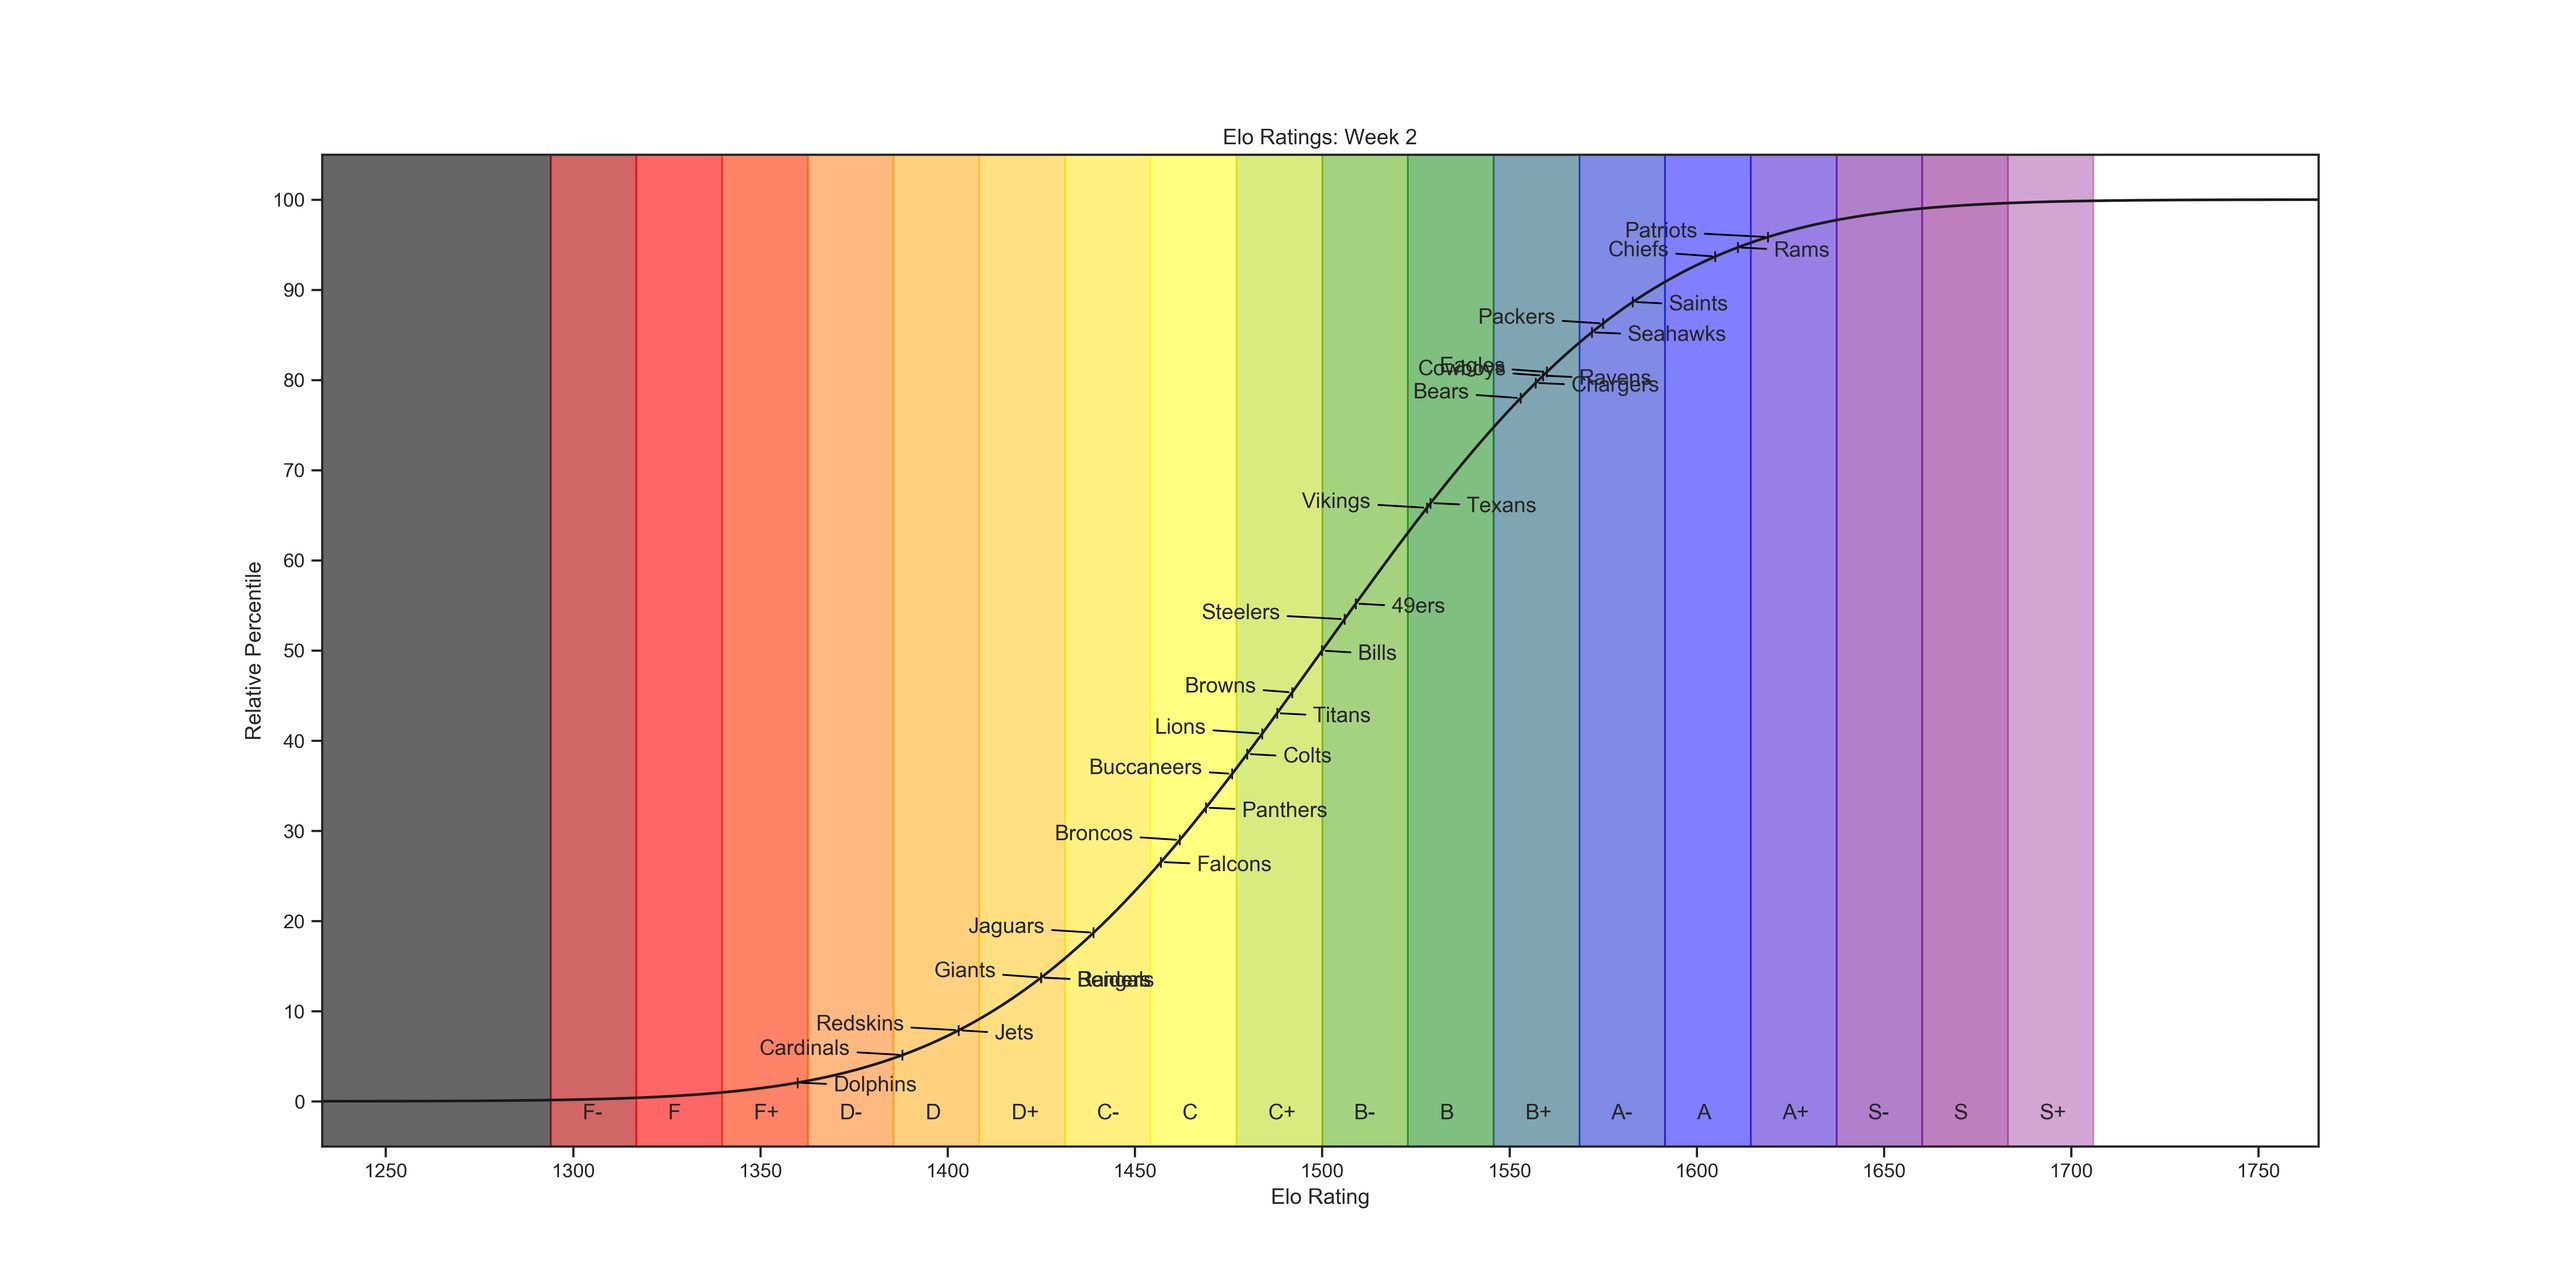
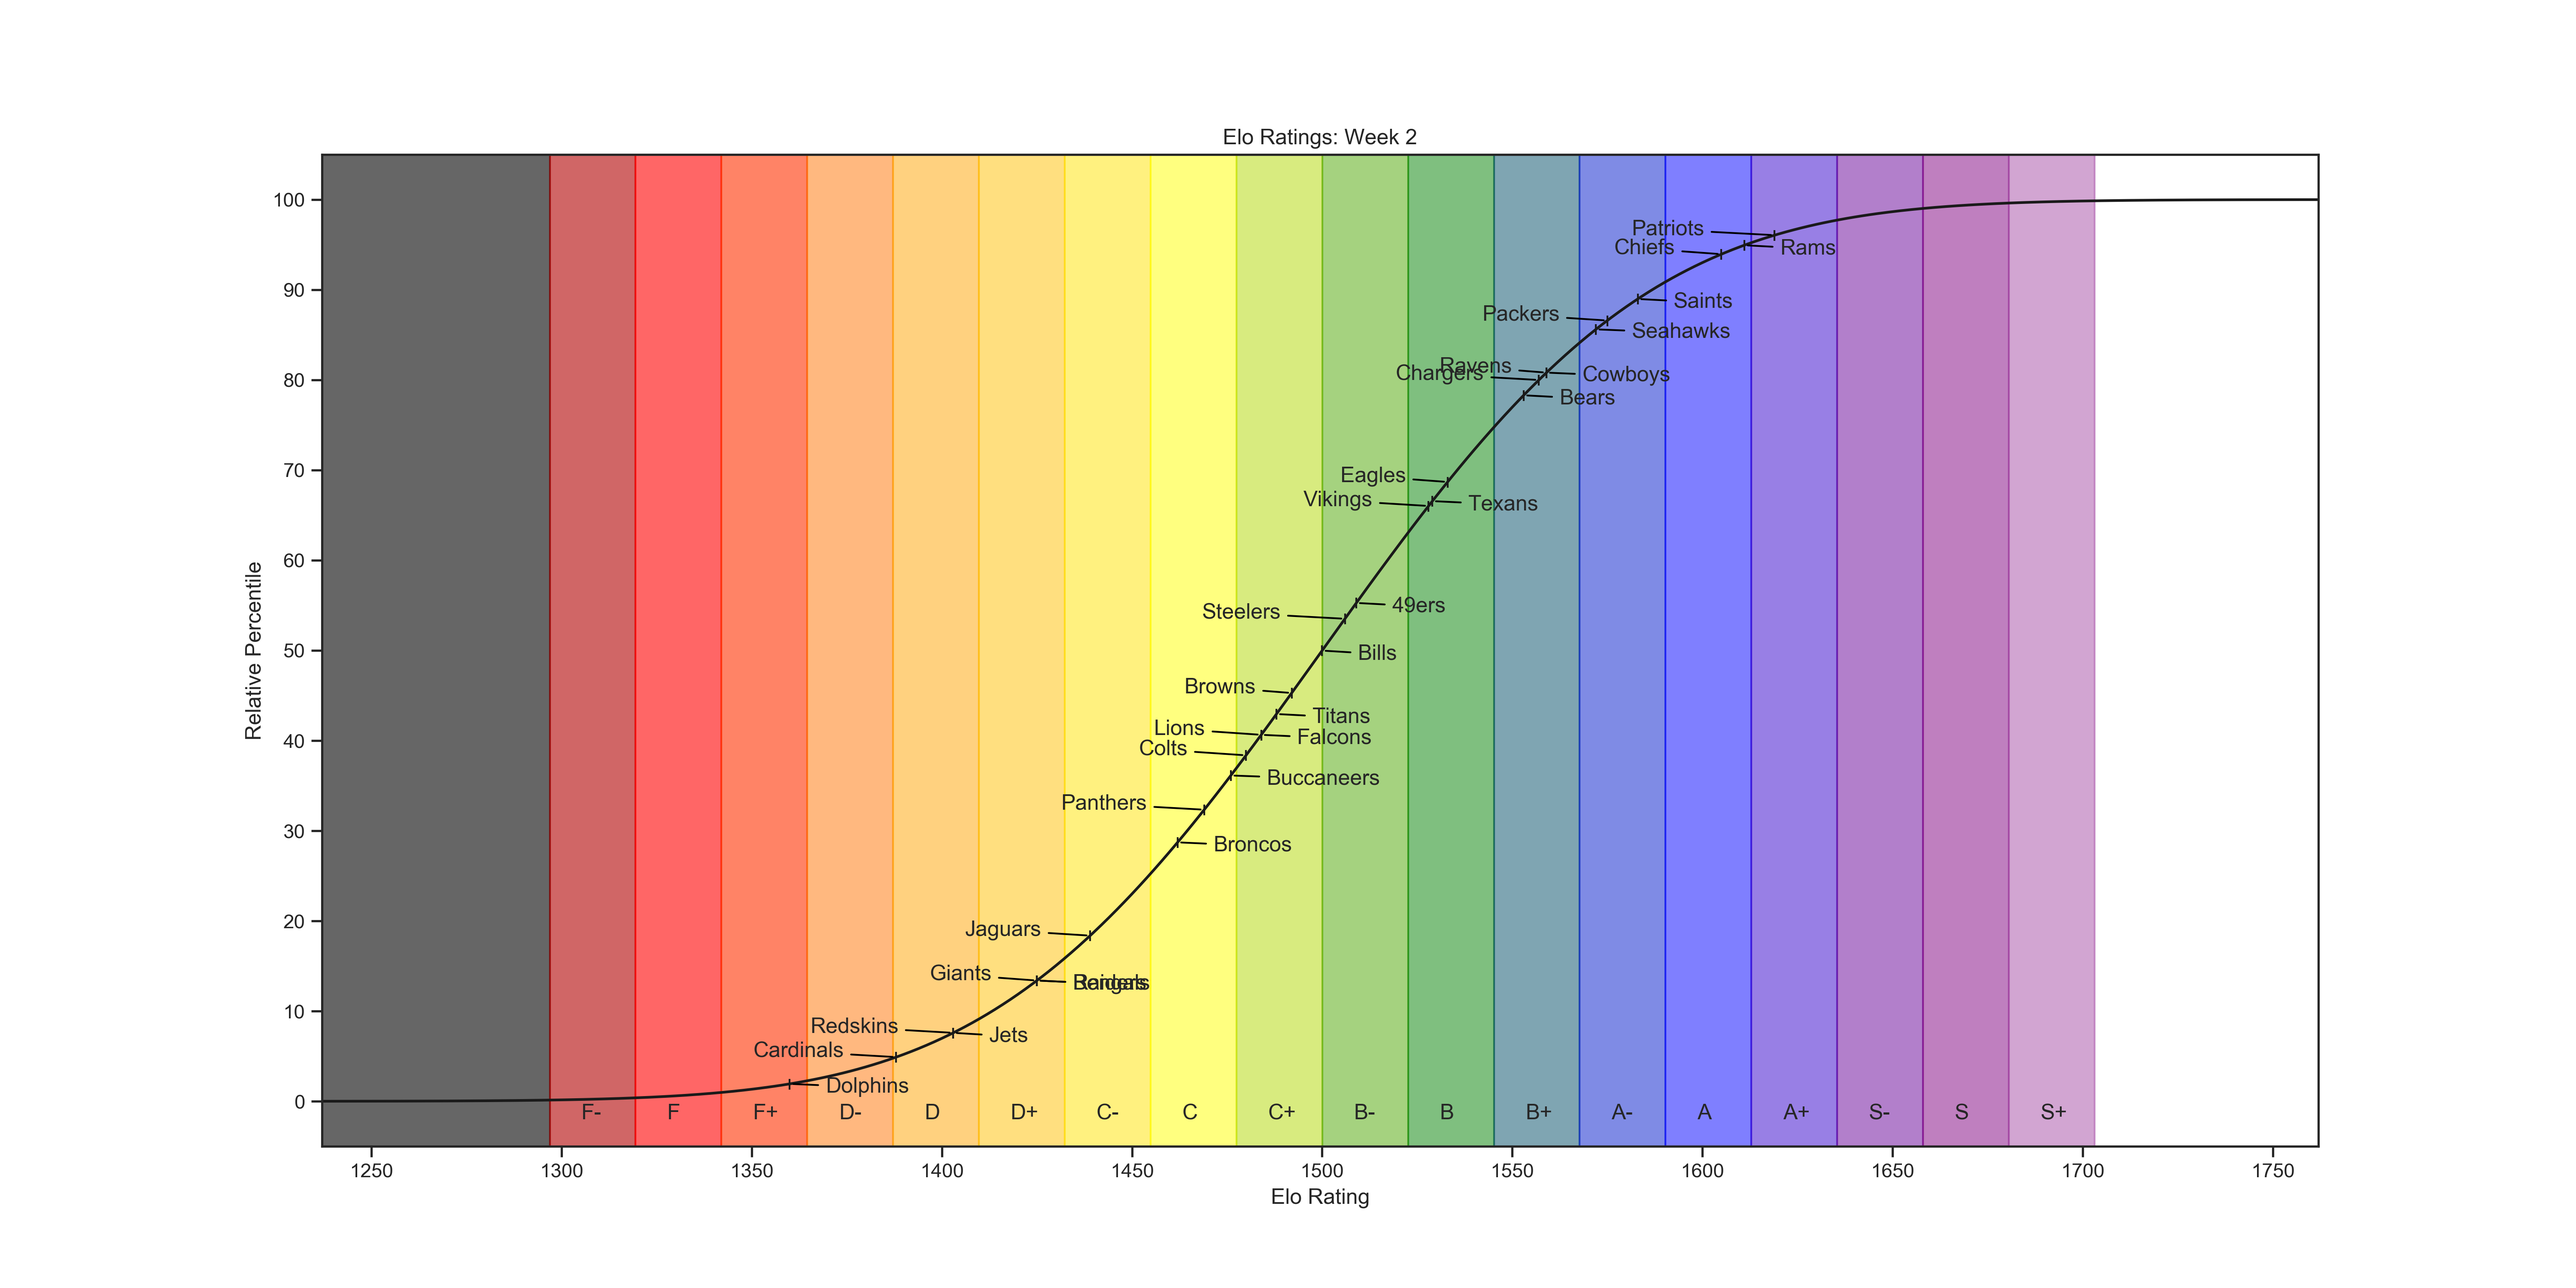
Updated Week 2

diff --git a/NFLSeason2019.py b/NFLSeason2019.py
@@ -347,10 +347,10 @@ def week_2(teams, week_end_date):
                              'Broncos', 14, 1, 282, 35, 50, 1, 1, 372,
                              'Bears', 16, 1, 120, 16, 27, 0, 0, 273)
 
-    # teams = set_game_outcome(teams, 0,
-    #                          'Falcons', 0, 0, 0, 0, 0, 0, 0, 0,
-    #                          'Eagles', 0, 0, 0, 0, 0, 0, 0, 0)
-    #
+    teams = set_game_outcome(teams, 1,
+                             'Falcons', 24, 3, 310, 27, 43, 3, 3, 367,
+                             'Eagles', 20, 2, 237, 28, 48, 1, 2, 286)
+
     # teams = set_game_outcome(teams, 0,
     #                          'Jets', 0, 0, 0, 0, 0, 0, 0, 0,
     #                          'Browns', 0, 0, 0, 0, 0, 0, 0, 0)
